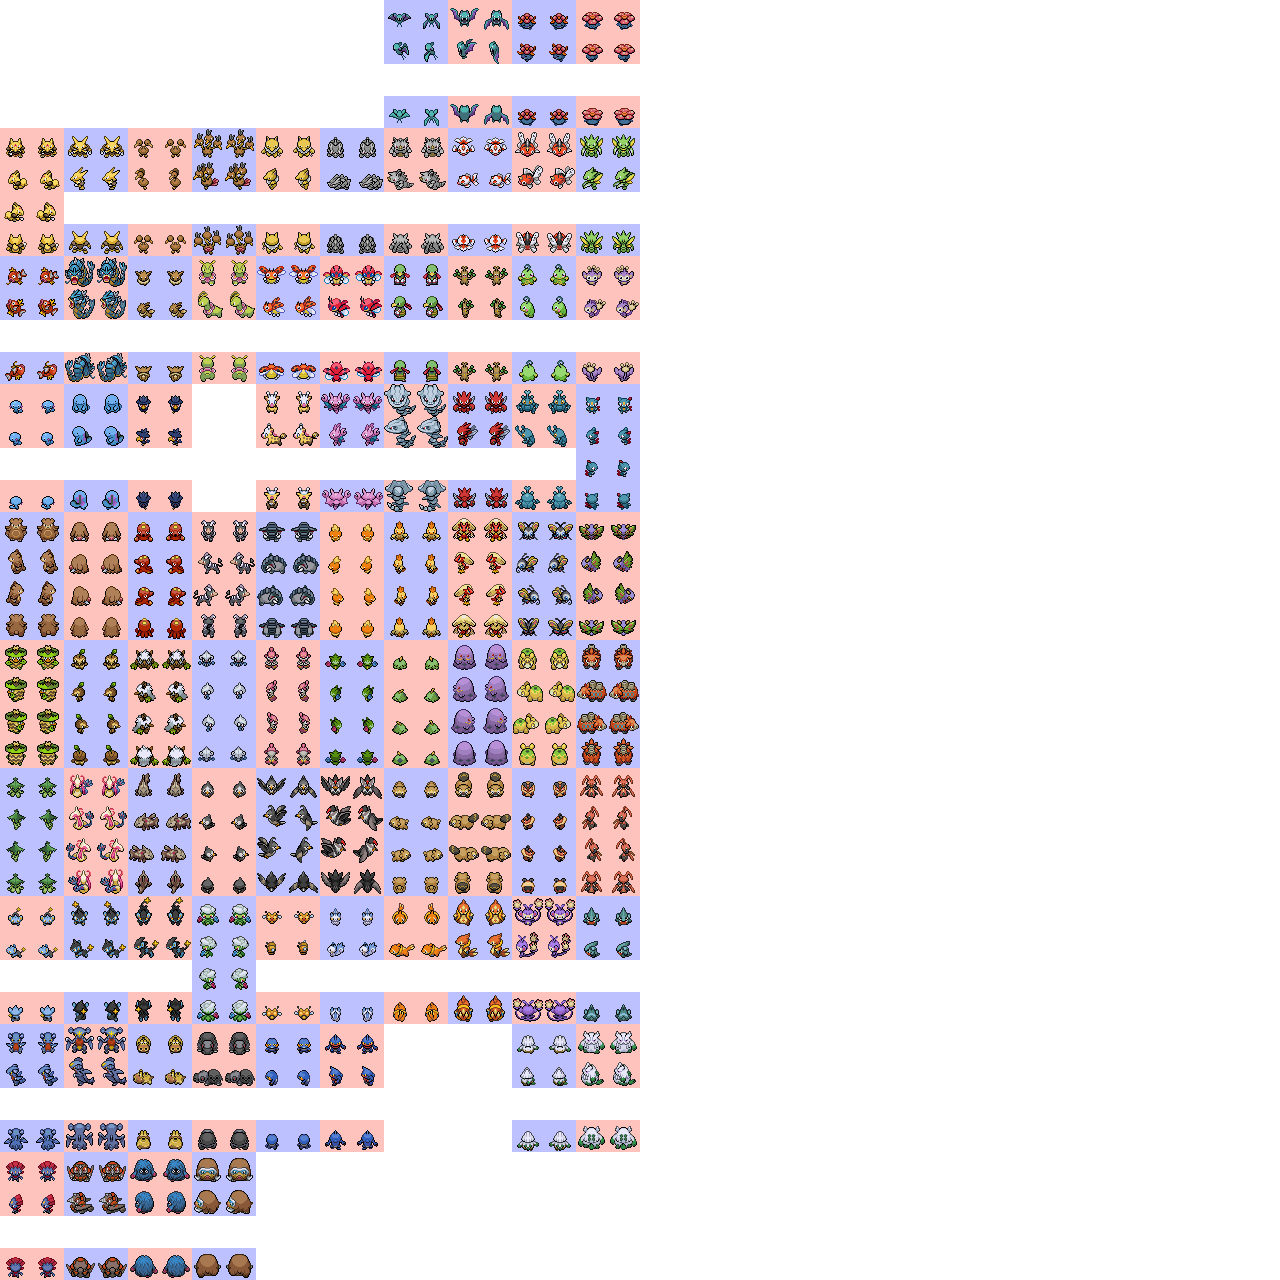
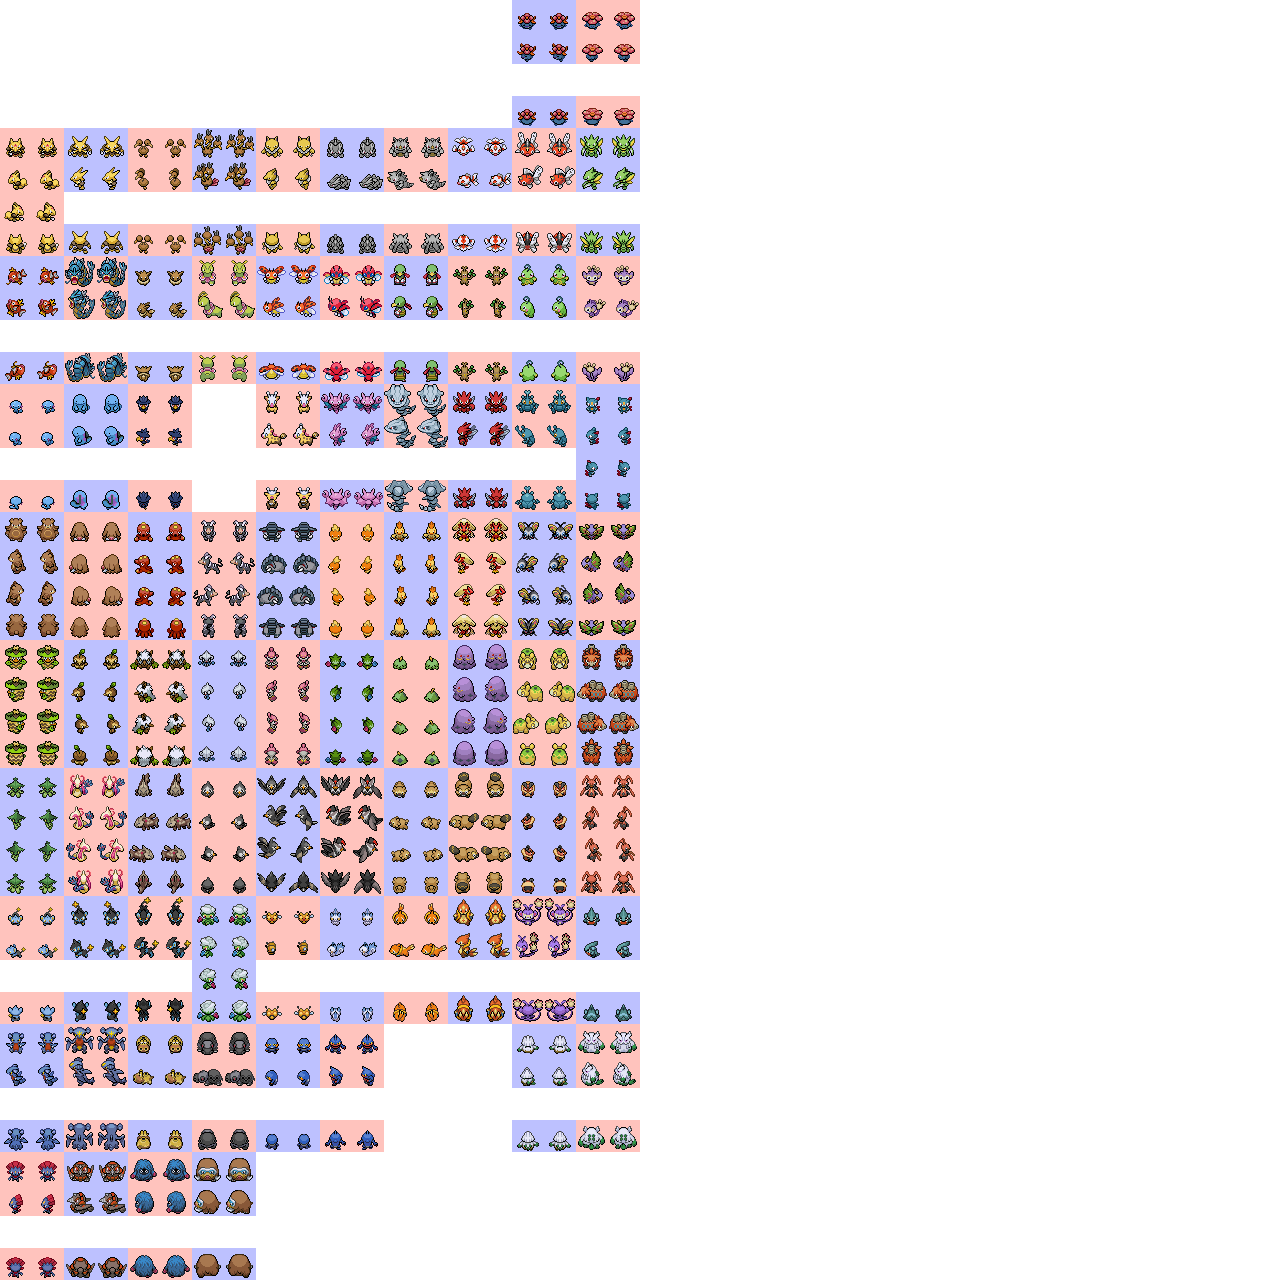
Gráficos de familia de Zubat

Changed region(s): [[0.2812, 0.0, 0.4062, 0.125]]

diff --git a/src/data/object_events/object_event_graphics_info.h b/src/data/object_events/object_event_graphics_info.h
@@ -3974,6 +3974,8 @@ extern const struct SpriteFrameImage sPicTable_RattataF[];
 extern const struct SpriteFrameImage sPicTable_RaticateF[];
 extern const struct SpriteFrameImage sPicTable_PikachuF[];
 extern const struct SpriteFrameImage sPicTable_RaichuF[];
+extern const struct SpriteFrameImage sPicTable_ZubatF[];
+extern const struct SpriteFrameImage sPicTable_GolbatF[];
 
 const struct ObjectEventGraphicsInfo gPokemonFormGraphics[] = 
 {
@@ -4084,7 +4086,43 @@ const struct ObjectEventGraphicsInfo gPokemonFormGraphics[] =
     .anims = sAnimTable_Following,
     .images = sPicTable_RaichuF,
     .affineAnims = gDummySpriteAffineAnimTable,
-}
+},
+  [6] = { //ZUBAT_FEMALE
+    .tileTag = TAG_NONE,
+    .paletteTag = OBJ_EVENT_PAL_TAG_DYNAMIC,
+    .reflectionPaletteTag = OBJ_EVENT_PAL_TAG_NONE,
+    .size = 512,
+    .width = 32,
+    .height = 32,
+    .paletteSlot = 2,
+    .shadowSize = SHADOW_SIZE_M,
+    .inanimate = FALSE,
+    .compressed = FALSE,
+    .tracks = TRACKS_FOOT,
+    .oam = &gObjectEventBaseOam_32x32,
+    .subspriteTables = sOamTables_32x32,
+    .anims = sAnimTable_Following,
+    .images = sPicTable_ZubatF,
+    .affineAnims = gDummySpriteAffineAnimTable,
+},
+  [7] = { //GOLBAT_FEMALE
+    .tileTag = TAG_NONE,
+    .paletteTag = OBJ_EVENT_PAL_TAG_DYNAMIC,
+    .reflectionPaletteTag = OBJ_EVENT_PAL_TAG_NONE,
+    .size = 512,
+    .width = 32,
+    .height = 32,
+    .paletteSlot = 2,
+    .shadowSize = SHADOW_SIZE_M,
+    .inanimate = FALSE,
+    .compressed = FALSE,
+    .tracks = TRACKS_FOOT,
+    .oam = &gObjectEventBaseOam_32x32,
+    .subspriteTables = sOamTables_32x32,
+    .anims = sAnimTable_Following,
+    .images = sPicTable_GolbatF,
+    .affineAnims = gDummySpriteAffineAnimTable,
+},
 };
 
 #if OW_FOLLOWERS_POKEBALLS

diff --git a/src/data/object_events/object_event_pic_tables_followers.h b/src/data/object_events/object_event_pic_tables_followers.h
@@ -211,33 +211,30 @@ static const struct SpriteFrameImage sPicTable_NinetalesAlolan[] = {
 #endif //P_ALOLAN_FORMS
 #endif //P_FAMILY_VULPIX
 
-#if P_FAMILY_JIGGLYPUFF
-#if P_GEN_2_CROSS_EVOS
 static const struct SpriteFrameImage sPicTable_Igglybuff[] = {
     overworld_ascending_frames(gObjectEventPic_Igglybuff, 4, 4),
 };
-#endif //P_GEN_2_CROSS_EVOS
 static const struct SpriteFrameImage sPicTable_Jigglypuff[] = {
     overworld_ascending_frames(gObjectEventPic_Jigglypuff, 4, 4),
 };
 static const struct SpriteFrameImage sPicTable_Wigglytuff[] = {
     overworld_ascending_frames(gObjectEventPic_Wigglytuff, 4, 4),
 };
-#endif //P_FAMILY_JIGGLYPUFF
-
-#if P_FAMILY_ZUBAT
 static const struct SpriteFrameImage sPicTable_Zubat[] = {
     overworld_ascending_frames(gObjectEventPic_Zubat, 4, 4),
+};
+const struct SpriteFrameImage sPicTable_ZubatF[] = {
+    overworld_ascending_frames(gObjectEventPic_ZubatF, 4, 4),
 };
 static const struct SpriteFrameImage sPicTable_Golbat[] = {
     overworld_ascending_frames(gObjectEventPic_Golbat, 4, 4),
 };
-#if P_GEN_2_CROSS_EVOS
+const struct SpriteFrameImage sPicTable_GolbatF[] = {
+    overworld_ascending_frames(gObjectEventPic_GolbatF, 4, 4),
+};
 static const struct SpriteFrameImage sPicTable_Crobat[] = {
     overworld_ascending_frames(gObjectEventPic_Crobat, 4, 4),
 };
-#endif //P_GEN_2_CROSS_EVOS
-#endif //P_FAMILY_ZUBAT
 
 #if P_FAMILY_ODDISH
 static const struct SpriteFrameImage sPicTable_Oddish[] = {

diff --git a/src/data/graphics/pokemon.h b/src/data/graphics/pokemon.h
@@ -359,6 +359,7 @@ const u32 gObjectEventPic_None[] = INCBIN_U32("graphics/pokemon/porygon/follower
     const u32 gObjectEventPic_Zubat[] = INCBIN_U32("graphics/pokemon/zubat/follower.4bpp");
     const u32 gMonFrontPic_ZubatF[] = INCBIN_U32("graphics/pokemon/zubat/anim_frontf.4bpp.lz");
     const u32 gMonBackPic_ZubatF[] = INCBIN_U32("graphics/pokemon/zubat/backf.4bpp.lz");
+    const u32 gObjectEventPic_ZubatF[] = INCBIN_U32("graphics/pokemon/zubat/followerf.4bpp");
 
     const u32 gMonFrontPic_Golbat[] = INCBIN_U32("graphics/pokemon/golbat/anim_front.4bpp.lz");
     const u32 gMonPalette_Golbat[] = INCBIN_U32("graphics/pokemon/golbat/normal.gbapal.lz");
@@ -367,6 +368,7 @@ const u32 gObjectEventPic_None[] = INCBIN_U32("graphics/pokemon/porygon/follower
     const u32 gObjectEventPic_Golbat[] = INCBIN_U32("graphics/pokemon/golbat/follower.4bpp");
     const u32 gMonFrontPic_GolbatF[] = INCBIN_U32("graphics/pokemon/golbat/anim_frontf.4bpp.lz");
     const u32 gMonBackPic_GolbatF[] = INCBIN_U32("graphics/pokemon/golbat/backf.4bpp.lz");
+    const u32 gObjectEventPic_GolbatF[] = INCBIN_U32("graphics/pokemon/golbat/followerf.4bpp");
 
     const u32 gMonFrontPic_Crobat[] = INCBIN_U32("graphics/pokemon/crobat/anim_front.4bpp.lz");
     const u32 gMonPalette_Crobat[] = INCBIN_U32("graphics/pokemon/crobat/normal.gbapal.lz");

diff --git a/src/event_object_movement.c b/src/event_object_movement.c
@@ -1775,6 +1775,18 @@ static const struct ObjectEventGraphicsInfo *SpeciesToGraphicsInfo(u16 species, 
       else
         graphicsInfo = &gPokemonFormGraphics[5];
       break;
+    case SPECIES_ZUBAT:
+      if(form==0)
+        graphicsInfo = &gSpeciesInfo[species].followerData;
+      else
+        graphicsInfo = &gPokemonFormGraphics[6];
+      break;
+    case SPECIES_GOLBAT:
+      if(form==0)
+        graphicsInfo = &gSpeciesInfo[species].followerData;
+      else
+        graphicsInfo = &gPokemonFormGraphics[7];
+      break;
     default:
         graphicsInfo = &gSpeciesInfo[species].followerData;
         break;
@@ -1901,6 +1913,8 @@ static bool8 GetMonInfo(struct Pokemon *mon, u16 *species, u8 *form, u8 *shiny)
     case SPECIES_RATICATE:
     case SPECIES_PIKACHU:
     case SPECIES_RAICHU:
+    case SPECIES_ZUBAT:
+    case SPECIES_GOLBAT:
         *form = GetMonGender(mon);
         break;
     }

diff --git a/src/data/pokemon/species_info/gen_1.h b/src/data/pokemon/species_info/gen_1.h
@@ -2620,6 +2620,7 @@ const struct SpeciesInfo gSpeciesInfoGen1[] =
         .backAnimId = BACK_ANIM_CONVEX_DOUBLE_ARC,
         PALETTES(Zubat),
         ICON(Zubat, 2),
+        ICON_FEMALE(Zubat, 2),
         FOOTPRINT(Zubat)
         FOLLOWER(Zubat, SIZE_32x32, SHADOW_SIZE_M, TRACKS_NONE)
         LEARNSETS(Zubat),
@@ -2672,6 +2673,7 @@ const struct SpeciesInfo gSpeciesInfoGen1[] =
         .backAnimId = BACK_ANIM_V_SHAKE,
         PALETTES(Golbat),
         ICON(Golbat, 2),
+        ICON_FEMALE(Golbat, 2),
         FOOTPRINT(Golbat)
         FOLLOWER(Golbat, SIZE_32x32, SHADOW_SIZE_M, TRACKS_NONE)
         LEARNSETS(Golbat),

diff --git a/src/util.c b/src/util.c
@@ -332,6 +332,9 @@ static const s8 sColorVariationModes[NUM_SPECIES] =
     [SPECIES_NIDORAN_M]         = NORMAL_HUE_X2_SHINY_HUE,
     [SPECIES_NIDORINO]          = NORMAL_HUE_X2_SHINY_HUE,
     [SPECIES_NIDOKING]          = NORMAL_HUE_X2_SHINY_HUE,
+    [SPECIES_ZUBAT]             = NORMAL_HUE_X2_SHINY_HUE,
+    [SPECIES_GOLBAT]            = NORMAL_HUE_SHINY_HUE,
+    [SPECIES_CROBAT]            = NORMAL_HUE_SHINY_HUE,
     [SPECIES_MANKEY]            = NORMAL_HUE_X2_SHINY_HUE_NEG,
     [SPECIES_PRIMEAPE]          = NORMAL_HUE_X2_SHINY_HUE_NEG,
     [SPECIES_ANNIHILAPE]        = NORMAL_MOD_SHINY_HUE_NEG,
